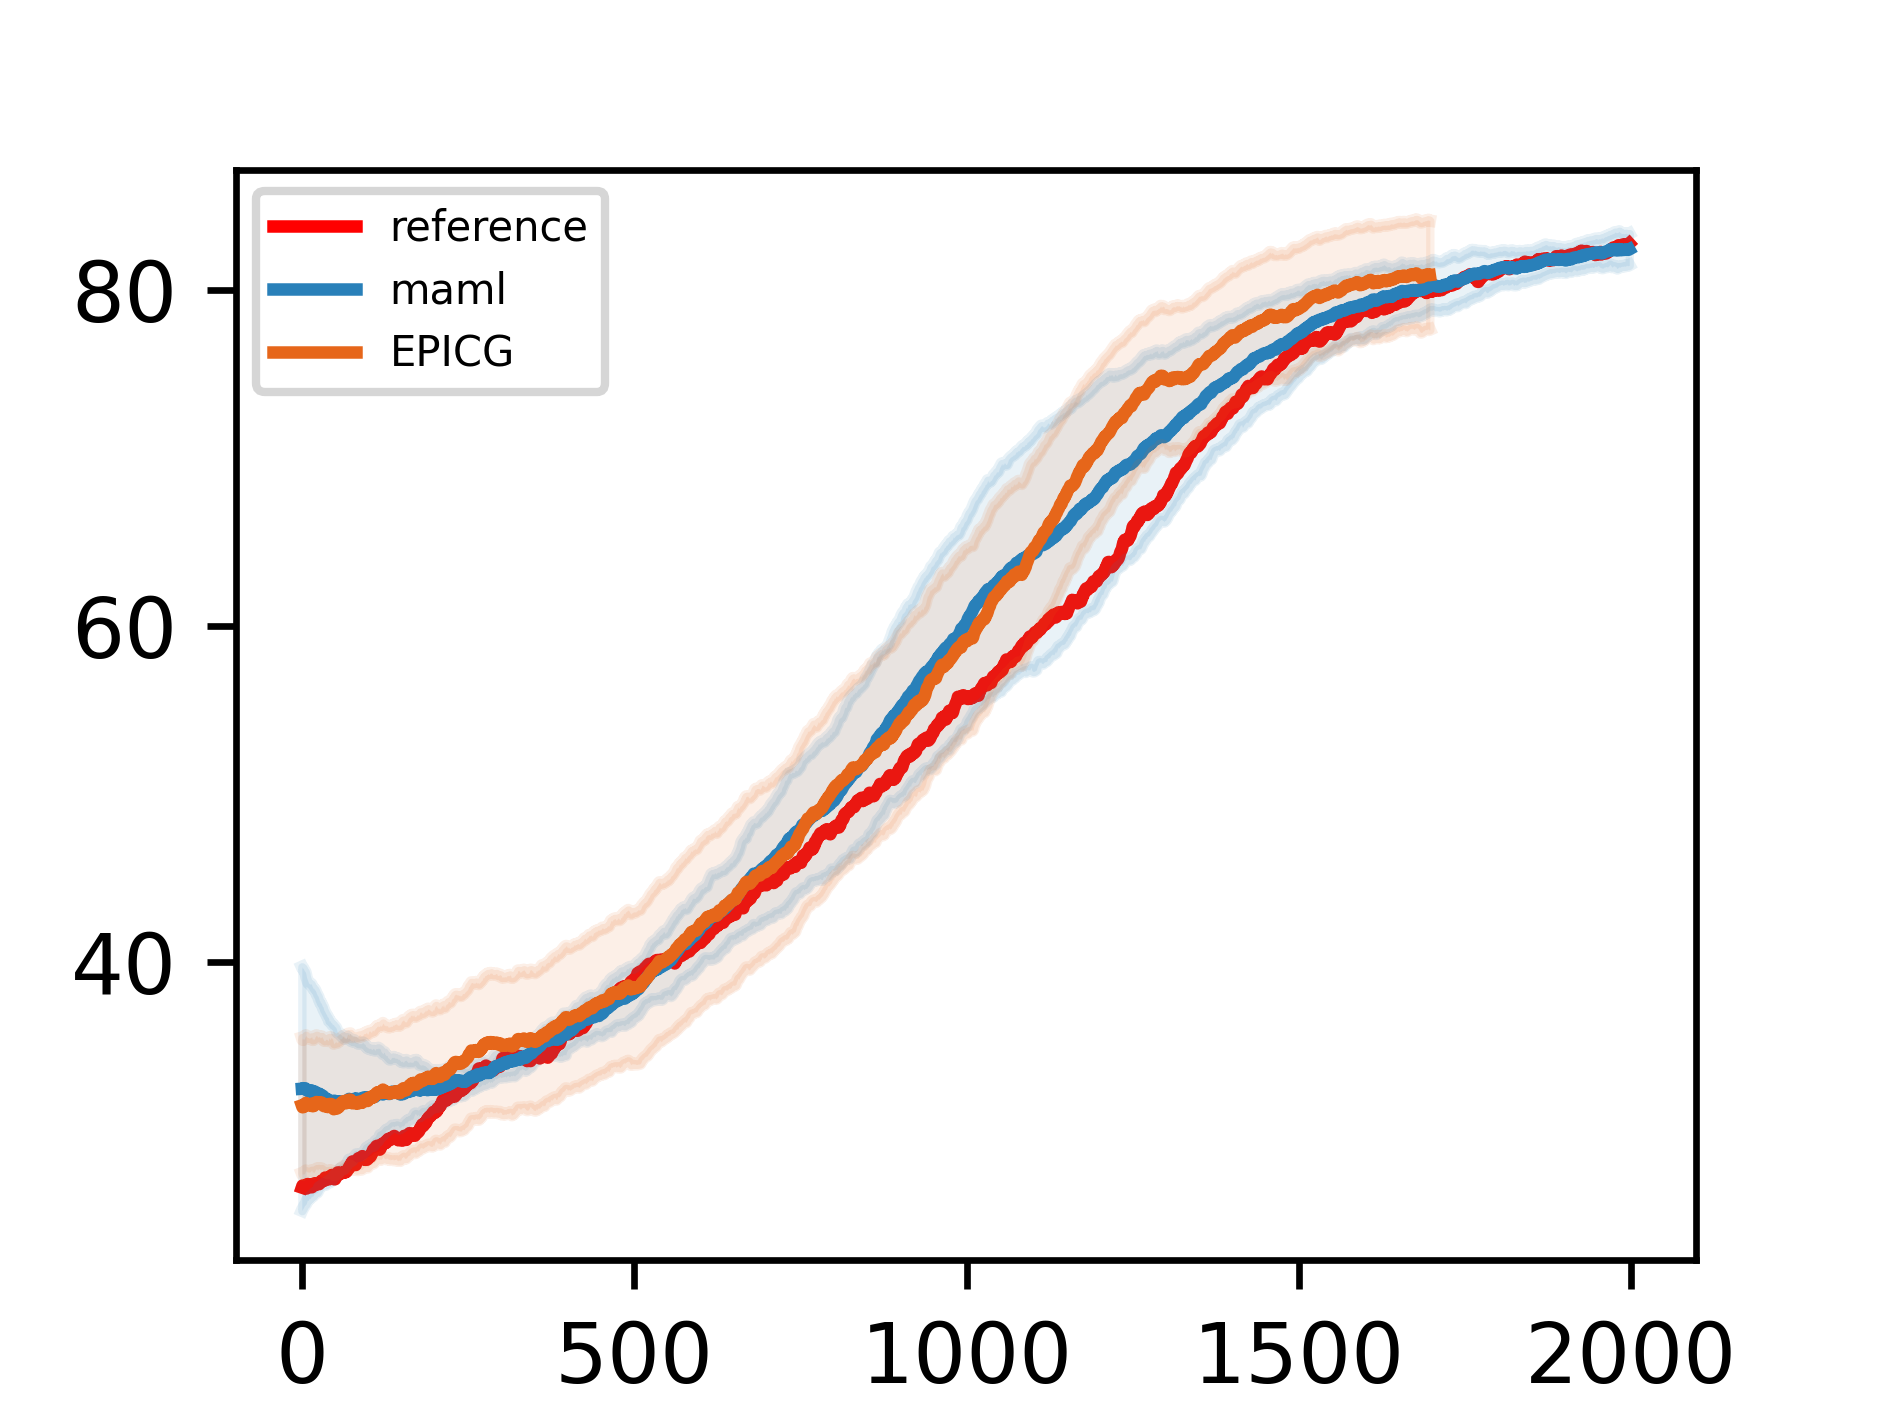
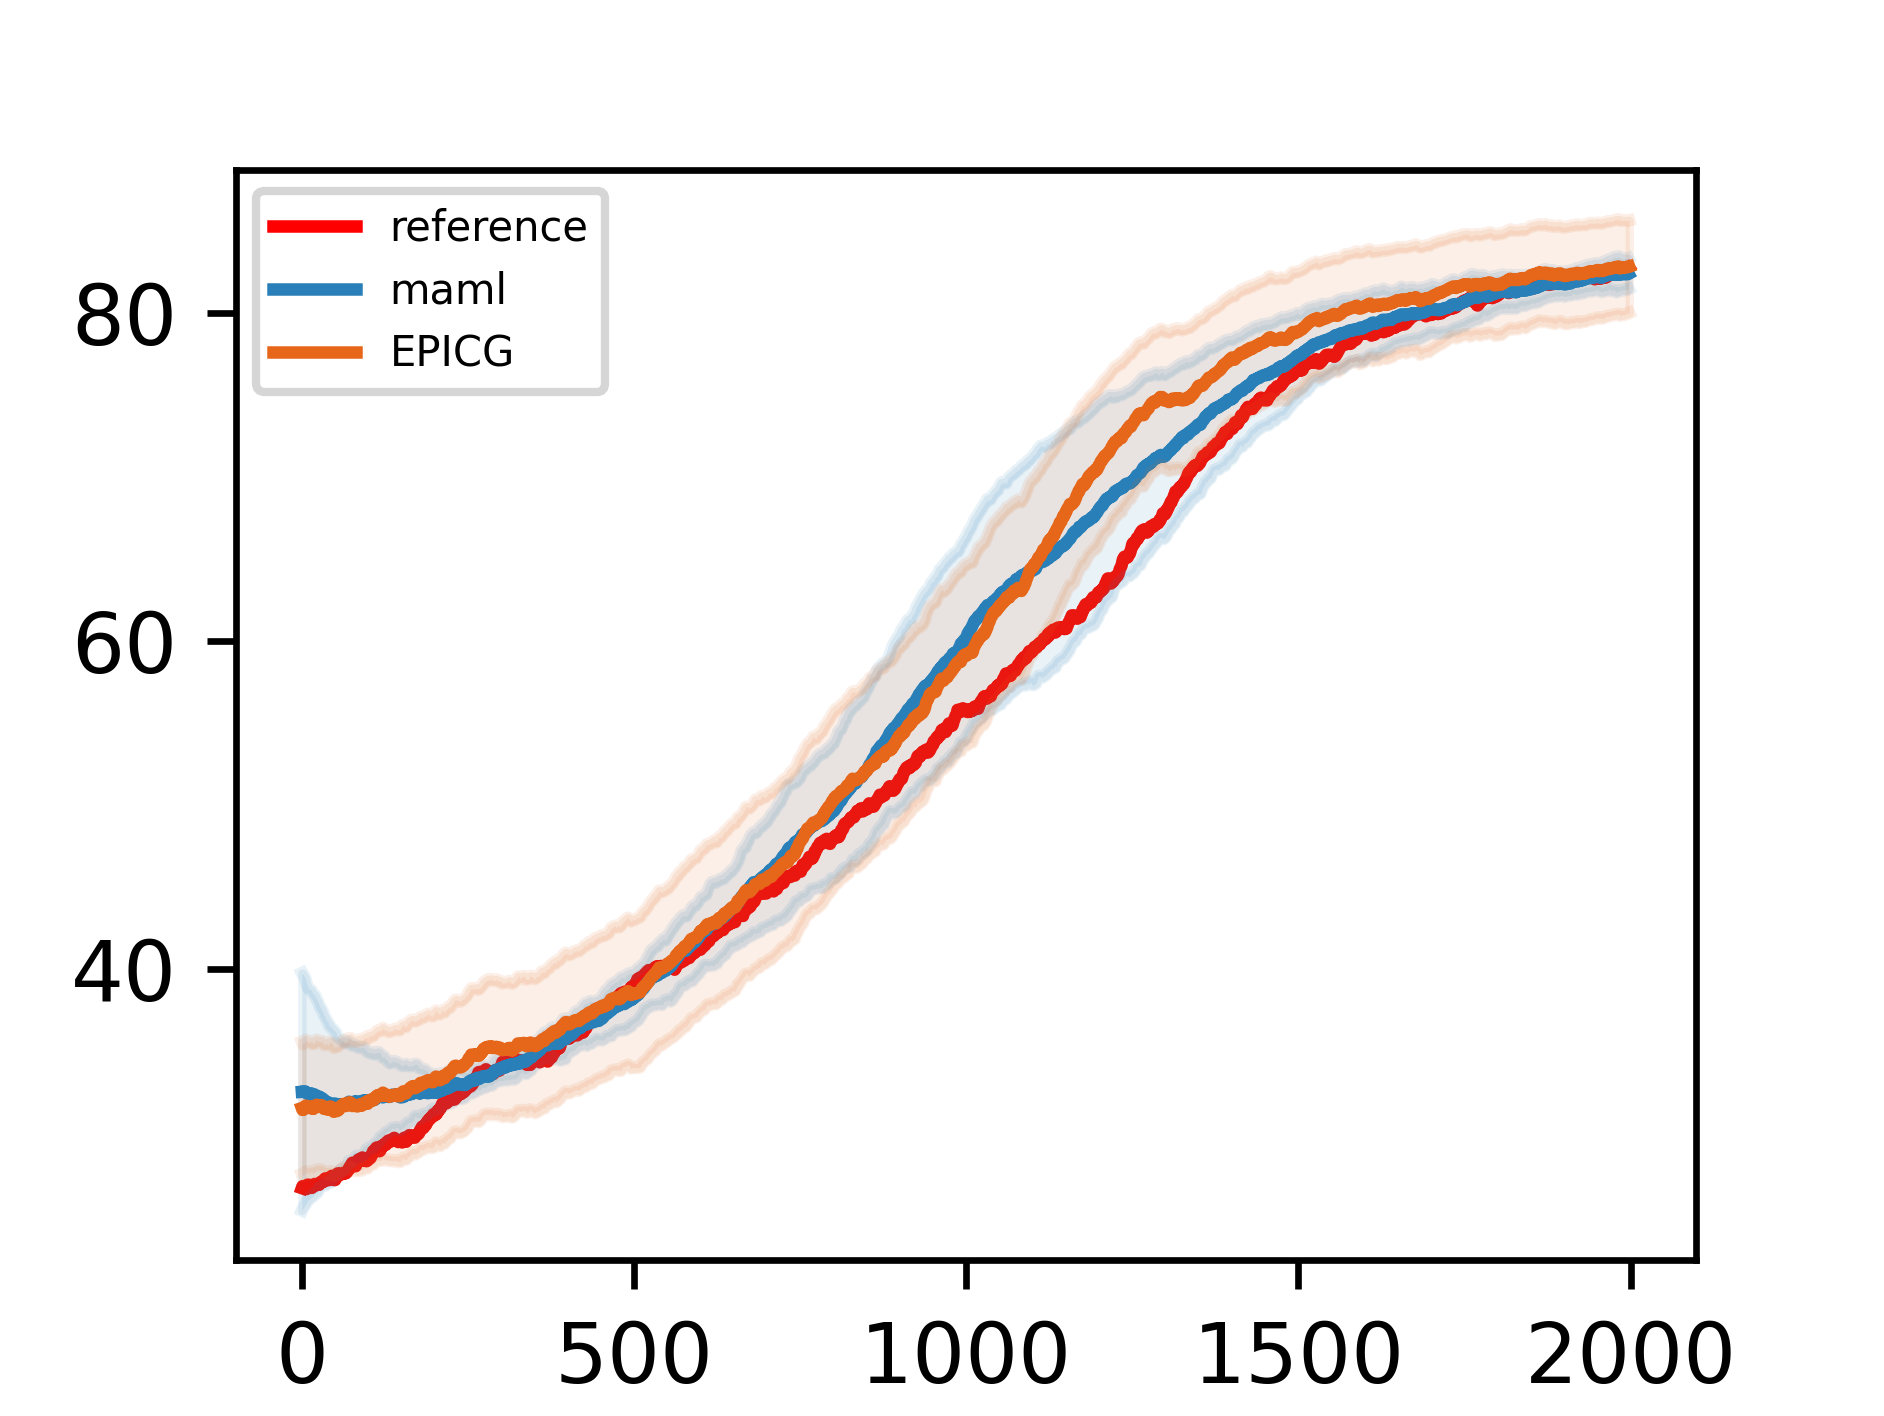
new

diff --git a/plot_test.py b/plot_test.py
@@ -168,18 +168,22 @@ def run_mc_compare_maml_plot():
         b = random.uniform(0, 1)
         b = rgb_3[j]
         colors[i] = (r,g,b)
-    steps = 100
-    subfolder = 'step100_5'
+    steps = 1000
+    subfolder = 'step1000'
     name = 'maml'
-    gradient = '1_35ave'
+    gradient = 'ave'
     mc_max = 10
     mc_compare = {}
     run_mc_key = False
-    dynamics='multimodal'
-    # dynamics='uniform'
-    mass = 5.0
-    goal = 0.5
-    if dynamics == 'uniform':
+    epicdynamics='simple'
+    mamldynamics='uniformgoal'
+    mamlsubfolder = 'ant2'
+    env = 'CartPole-v0'
+    env = 'AntDirection'
+    mass = 1.0
+    goal = 10.0
+    addreference = False
+    if epicdynamics == 'uniform':
         mass = 10.0
         goal=0.0
     if run_mc_key:
@@ -197,29 +201,30 @@ def run_mc_compare_maml_plot():
     for name, ms_sep in zip(['1','2'],[ms[2:5],ms[5:8]]):
         fig, ax = plt.subplots(figsize=(1.57 * 2, 1.18 * 2), dpi=600)
         # add the baselines
-        for e in [10]:
-            epic_mean, epic_std = read_rewards_multi(filename='./results/test/nosingle_kl/multimodal/EPIC_CartPole-v0_vpg_s2000_n{}_every25_size32_c0.5_tau0.5_goal10.0_steps{}_mass5.0'.format(e,steps),
-                                                    samples=2000,
-                                                    episodes=e,
-                                                    runs=1)
-        
-        
-            x_vals = list(range(len(epic_mean)))
-            ax.plot(x_vals, epic_mean, color='red',label = "reference")
-            ax.plot(x_vals, epic_mean+epic_std,  alpha=0.1)
-            ax.plot(x_vals, epic_mean-epic_std,  alpha=0.1)
-            ax.fill_between(x_vals, y1=epic_mean-epic_std, y2=epic_mean+epic_std, alpha=0.1)
+        if addreference:
+            for e in [10]:
+                epic_mean, epic_std = read_rewards_multi(filename='./results/test/nosingle_kl/multimodal/EPIC_CartPole-v0_vpg_s2000_n{}_every25_size32_c0.5_tau0.5_goal10.0_steps{}_mass5.0'.format(e,steps),
+                                                        samples=2000,
+                                                        episodes=e,
+                                                        runs=1)
+            
+            
+                x_vals = list(range(len(epic_mean)))
+                ax.plot(x_vals, epic_mean, color='red',label = "reference")
+                ax.plot(x_vals, epic_mean+epic_std,  alpha=0.1)
+                ax.plot(x_vals, epic_mean-epic_std,  alpha=0.1)
+                ax.fill_between(x_vals, y1=epic_mean-epic_std, y2=epic_mean+epic_std, alpha=0.1)
         
         # add the MAMLs
-        N = 50 
-        if dynamics == 'uniform':
+        N = 25 
+        if mamldynamics == 'uniform':
             mass = 10.0
             goal=0.0
             N = 5
-        maml_mean, maml_std = read_rewards_multi(filename='./results_maml/{}/maml_CartPole-v0_vpg_s2000_n10_every{}_size32_goal{}_steps{}_mass{}'.format(dynamics,N,goal,steps,mass),
+        maml_mean, maml_std = read_rewards_multi(filename='./results_maml/{}/{}/maml_{}_vpg_s2000_n10_every{}_size256_goal{}_steps{}_mass{}'.format(mamlsubfolder,mamldynamics,env,N,goal,steps,mass),
                                              samples=2000,
                                              episodes=10,
-                                             runs=4)
+                                             runs=1)
         x_vals = list(range(len(maml_mean)))
         lb = 'maml'
         ax.plot(x_vals, maml_mean, color = '#2980B9', label=lb)
@@ -230,7 +235,7 @@ def run_mc_compare_maml_plot():
 
         for m in ms_sep:
             if m == mc_max:
-                fname = './results/montecarlo/{}/{}/EPIC_CartPole-v0_vpg_s2000_n10_every25_size32_c0.5_tau0.5_goal10.0_steps{}_mass{}_mc{}'.format(subfolder,dynamics,steps, mass,m)
+                fname = './results/montecarlo/{}/{}/EPIC_{}_vpg_s2000_n10_every5_size256_c0.5_tau0.5_goal0.5_steps{}_mass{}_mc{}'.format(subfolder,epicdynamics,env,steps, mass,m)
                 epic_mean_std = read_rewards_multi_mc(filename=fname,
                                                     samples=2000,
                                                     runs=1)
@@ -246,7 +251,7 @@ def run_mc_compare_maml_plot():
         # plt.yticks([-15, -10, -5, 0])
         # plt.tick_params(labelbottom=False, labelleft=False)
         # plt.show()
-        plt.savefig('./results/montecarlo/{}/{}/step{}_epic25_episodes_nosingle_mc_maml_compare_{}_{}'.format(subfolder, dynamics,steps, name, gradient))
+        plt.savefig('./results/montecarlo/{}/{}/step{}_{}_epic25_episodes_nosingle_mc_maml_compare_{}_{}'.format(subfolder, epicdynamics,steps,env, name, epicdynamics))
 
 
 def run_ablation():

diff --git a/algos/agents/gaussian_vpg_mc.py b/algos/agents/gaussian_vpg_mc.py
@@ -382,7 +382,7 @@ class GaussianVPGMC(nn.Module):
                     v[key]+=policy_m_para_after[key] - policy_m_para_before[key]
             
         for key, meta_para in zip(v, self.new_default_policy.parameters()):
-            meta_para.data.copy_(meta_para.data + 1.4*v[key]/self.m)
+            meta_para.data.copy_(meta_para.data + 1.6*v[key]/self.m)
        
 
     def update_default_and_prior_policy(self):
